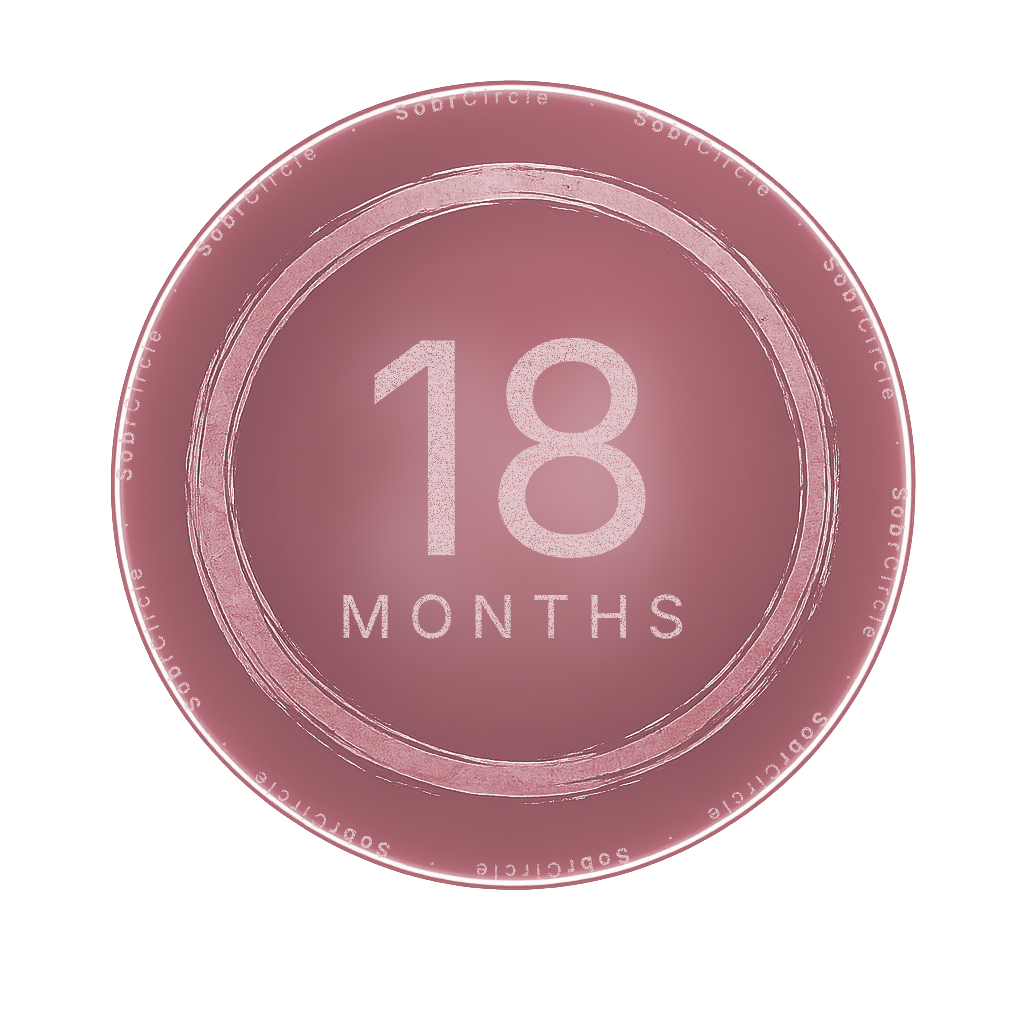
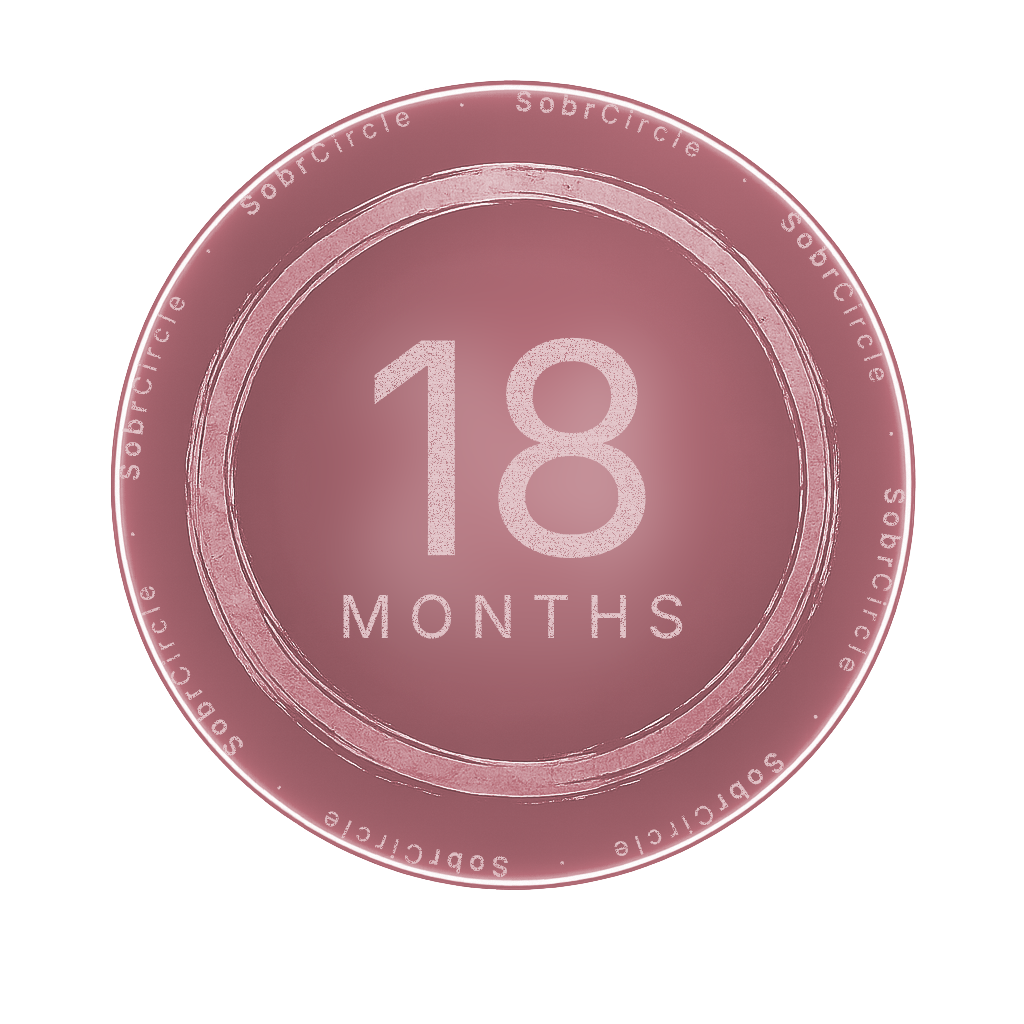
Bigger SobrCircle text, centered in the brushwork-to-halo gap
Bumps font from 20px to 26px and brings radius in from 388 to 383 — the
text now rides in the dead center of the band between the brushed ring's
outer edge and the white halo line. Drops to 8 repeats to fit at the
larger size.

https://claude.ai/code/session_01TqmVcPLJNZuf7Q6XCPWgNk

diff --git a/scripts/generate-badges.ts b/scripts/generate-badges.ts
@@ -270,14 +270,13 @@ function drawMicroTypography(ctx: SKRSContext2D, hex: string) {
   const lb = Math.round(b + (255 - b) * k)
   const fill = `rgba(${lr}, ${lg}, ${lb}, 0.95)`
 
-  // In the gap between the brushed ring's outer edge and the white
-  // halo line at the badge's outer perimeter. Text rides at r=388 with
-  // a small font so it fits in the band without bleeding into either.
-  const radius = 388
-  const fontSize = 20
+  // Dead center of the gap between the brushstroke's outer edge (~r=378)
+  // and the bright white halo line (~r=390). Text rides at r=383.
+  const radius = 383
+  const fontSize = 26
 
   const segments: { text: string; weight: number }[] = []
-  const repeats = 10
+  const repeats = 8
   for (let i = 0; i < repeats; i++) {
     segments.push({ text: 'Sobr',   weight: 700 })
     segments.push({ text: 'Circle', weight: 400 })
